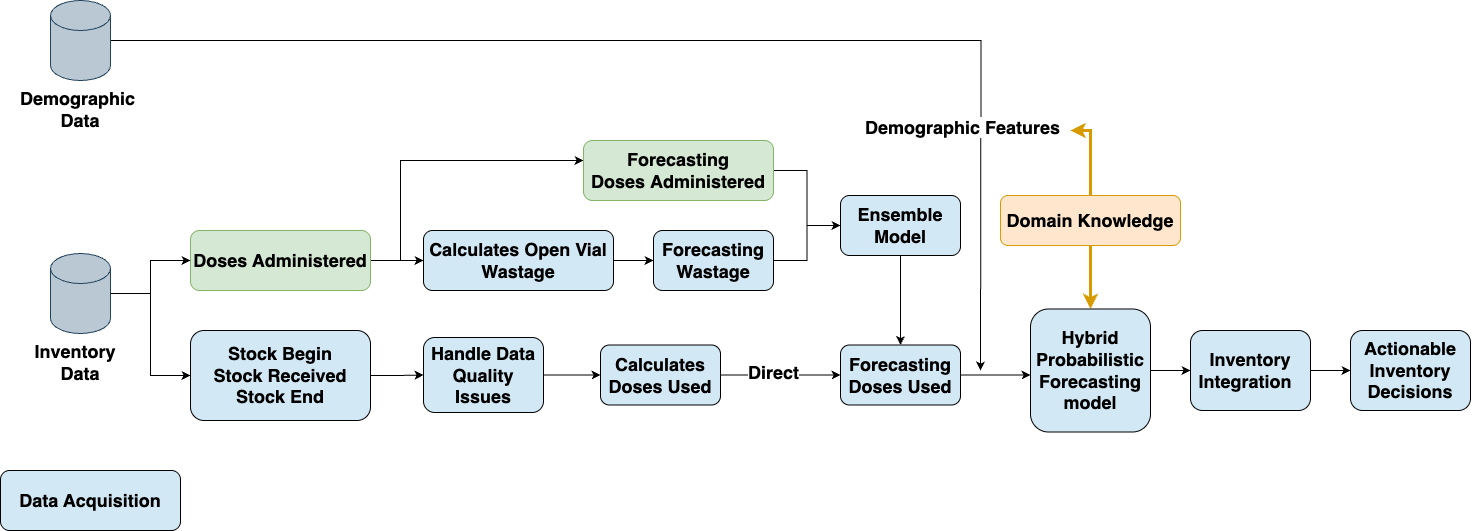
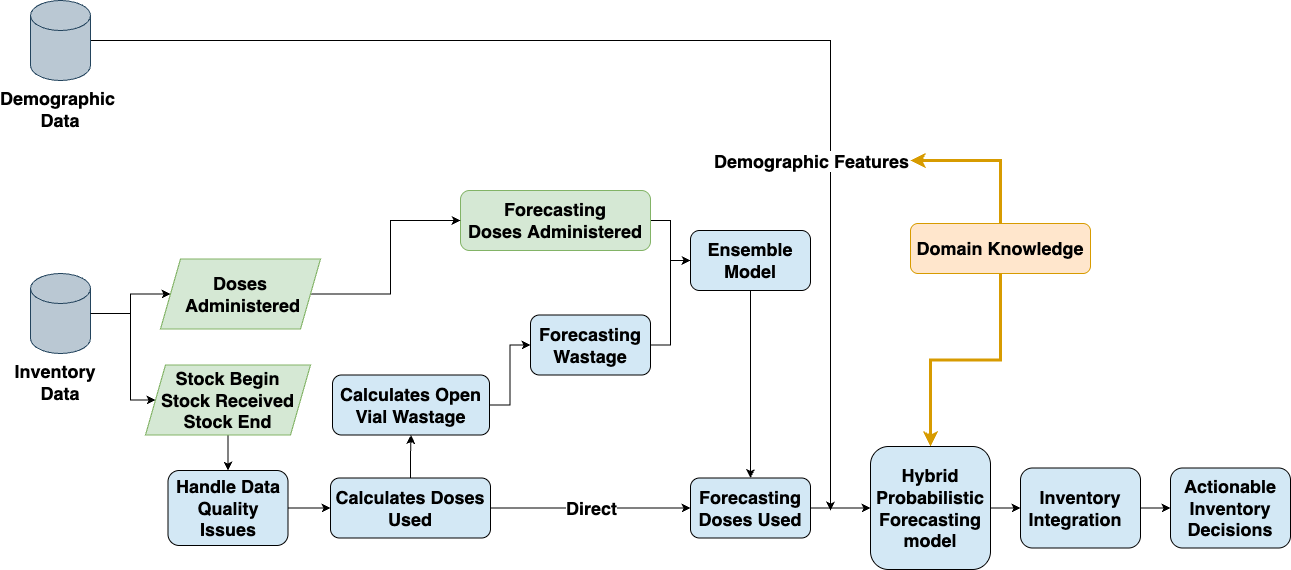
Few changes to EURO slides

diff --git a/_site/slides/euro_presentation/euro_slides.html b/_site/slides/euro_presentation/euro_slides.html
@@ -338,8 +338,6 @@
 <ul>
 <li>Developed by <span style="color: #FF4500;">UNICEF</span> to enhance national capacity in vaccine forecasting and supply planning</li>
 <li>Designed for <span style="color: #FF4500;">use by national immunisation programme managers</span> to support multi-year vaccine planning, particularly in <span style="color: #FF4500;">low- and middle-income countries</span></li>
-<li><span style="color: #FF4500;">Incorporates the older EPI Log Tool,</span> which relied solely on demographic methods</li>
-<li>Used during <span style="color: #FF4500;">annual forecasting exercises and for multi-year planning to align supply with projected needs</span></li>
 </ul>
 </section>
 <section id="forecasting-methods-in-the-fsp-tool" class="slide level2">
@@ -420,9 +418,7 @@
 <h2>Gavi Vaccine Allocation and Renewal Tool</h2>
 <ul>
 <li>Developed by <span style="color: #FF4500;">Gavi, the Vaccine Alliance</span> to guide financial support for country immunisation programmes</li>
-<li>Used by <span style="color: #FF4500;">national governments and Gavi</span> to estimate routine vaccine needs and determine <span style="color: #FF4500;">multi-year funding allocations</span></li>
-<li>Applied during <span style="color: #FF4500;">multi-year approval (MYA) and annual renewal processes</span> for Gavi-supported vaccines</li>
-<li>Focused on <span style="color: #FF4500;">routine immunisation only</span>, using demographic forecasting to inform co-financing responsibilities and procurement planning</li>
+<li>Used by <span style="color: #FF4500;">national governments and Gavi</span> to estimate routine vaccine needs and determine <span style="color: #FF4500;">multi-year funding allocations for Gavi-supported vaccines</span></li>
 </ul>
 </section>
 <section id="forecasting-equation-used-in-the-tool" class="slide level2">
@@ -504,26 +500,6 @@
 
 
 </div>
-</section>
-<section id="strengths-of-current-forecasting-tools" class="slide level2">
-<h2>Strengths of Current Forecasting Tools</h2>
-<ul>
-<li><span style="color: #FF4500;">Fit for national planning</span>: supports budgeting and procurement.</li>
-<li><span style="color: #FF4500;">Simple and transparent</span>: easy to use, low technical barrier.</li>
-<li><span style="color: #FF4500;">Globally backed</span>: aligned with funders and reporting.</li>
-<li><span style="color: #FF4500;">Standardised assumptions</span>: enables cross-country comparison.</li>
-<li><span style="color: #FF4500;">Evolving tools</span>: FSP integration improves accuracy.</li>
-</ul>
-</section>
-<section id="limitations-of-current-forecasting-tools" class="slide level2">
-<h2>Limitations of Current Forecasting Tools</h2>
-<ul>
-<li><span style="color: #FF4500;">Assume perfect data</span>: not realistic in low-resource settings.</li>
-<li><span style="color: #FF4500;">Ignore uncertainty</span> in demand and supply.</li>
-<li><span style="color: #FF4500;">National focus</span>: misses facility-level variation.</li>
-<li><span style="color: #FF4500;">Slow updates</span>: not responsive to rapid changes.</li>
-<li><span style="color: #FF4500;">Fixed weights</span>: not adaptive to data quality.</li>
-</ul>
 </section>
 <section id="literature-review" class="slide level2">
 <h2>Literature Review</h2>
@@ -790,7 +766,7 @@
 <section id="research-questions" class="slide level2" data-auto-animate="true">
 <h2 data-id="quarto-animate-title">Research Questions</h2>
 <div class="fragment">
-<p><span style="color: #FF4500;"><strong>RQ1:</strong></span> What is the most suitable consumption-based forecasting model for routine vaccine demand forecasting at national level?</p>
+<p><span style="color: #FF4500;"><strong>RQ1:</strong></span> What is the most suitable consumption-based forecasting model for routine vaccine demand at national level?</p>
 </div>
 <div class="fragment">
 <p><span style="color: #FF4500;"><strong>RQ2:</strong></span> How can population-based features be effectively combined with consumption-based models to improve forecast accuracy and quantify uncertainty?</p>
@@ -855,7 +831,7 @@
 <section id="forecasting-setup" class="slide level2">
 <h2>Forecasting Setup</h2>
 <ul>
-<li>Forecasting methods: <span style="color: #FF4500;">Naive, Seasonal Naive, ARIMA, ETS, Linear Regression, Gradient Boosting (GBM, quantile regression) </span></li>
+<li>Forecasting methods: <span style="color: #FF4500;">Seasonal Naive, ARIMA, ETS, Linear Regression, Gradient Boosting (GBM, quantile regression) </span></li>
 <li>Forecast horizon: <span style="color: #FF4500;">12 months</span></li>
 <li>Target: Doses Administered</li>
 <li>Cross-sectional training across vaccines with monthly data, using an <span style="color: #FF4500;">expanding window approach</span></li>

diff --git a/slides/euro_presentation/euro_slides.html b/slides/euro_presentation/euro_slides.html
@@ -338,8 +338,6 @@
 <ul>
 <li>Developed by <span style="color: #FF4500;">UNICEF</span> to enhance national capacity in vaccine forecasting and supply planning</li>
 <li>Designed for <span style="color: #FF4500;">use by national immunisation programme managers</span> to support multi-year vaccine planning, particularly in <span style="color: #FF4500;">low- and middle-income countries</span></li>
-<li><span style="color: #FF4500;">Incorporates the older EPI Log Tool,</span> which relied solely on demographic methods</li>
-<li>Used during <span style="color: #FF4500;">annual forecasting exercises and for multi-year planning to align supply with projected needs</span></li>
 </ul>
 </section>
 <section id="forecasting-methods-in-the-fsp-tool" class="slide level2">
@@ -420,9 +418,7 @@
 <h2>Gavi Vaccine Allocation and Renewal Tool</h2>
 <ul>
 <li>Developed by <span style="color: #FF4500;">Gavi, the Vaccine Alliance</span> to guide financial support for country immunisation programmes</li>
-<li>Used by <span style="color: #FF4500;">national governments and Gavi</span> to estimate routine vaccine needs and determine <span style="color: #FF4500;">multi-year funding allocations</span></li>
-<li>Applied during <span style="color: #FF4500;">multi-year approval (MYA) and annual renewal processes</span> for Gavi-supported vaccines</li>
-<li>Focused on <span style="color: #FF4500;">routine immunisation only</span>, using demographic forecasting to inform co-financing responsibilities and procurement planning</li>
+<li>Used by <span style="color: #FF4500;">national governments and Gavi</span> to estimate routine vaccine needs and determine <span style="color: #FF4500;">multi-year funding allocations for Gavi-supported vaccines</span></li>
 </ul>
 </section>
 <section id="forecasting-equation-used-in-the-tool" class="slide level2">
@@ -504,26 +500,6 @@
 
 
 </div>
-</section>
-<section id="strengths-of-current-forecasting-tools" class="slide level2">
-<h2>Strengths of Current Forecasting Tools</h2>
-<ul>
-<li><span style="color: #FF4500;">Fit for national planning</span>: supports budgeting and procurement.</li>
-<li><span style="color: #FF4500;">Simple and transparent</span>: easy to use, low technical barrier.</li>
-<li><span style="color: #FF4500;">Globally backed</span>: aligned with funders and reporting.</li>
-<li><span style="color: #FF4500;">Standardised assumptions</span>: enables cross-country comparison.</li>
-<li><span style="color: #FF4500;">Evolving tools</span>: FSP integration improves accuracy.</li>
-</ul>
-</section>
-<section id="limitations-of-current-forecasting-tools" class="slide level2">
-<h2>Limitations of Current Forecasting Tools</h2>
-<ul>
-<li><span style="color: #FF4500;">Assume perfect data</span>: not realistic in low-resource settings.</li>
-<li><span style="color: #FF4500;">Ignore uncertainty</span> in demand and supply.</li>
-<li><span style="color: #FF4500;">National focus</span>: misses facility-level variation.</li>
-<li><span style="color: #FF4500;">Slow updates</span>: not responsive to rapid changes.</li>
-<li><span style="color: #FF4500;">Fixed weights</span>: not adaptive to data quality.</li>
-</ul>
 </section>
 <section id="literature-review" class="slide level2">
 <h2>Literature Review</h2>
@@ -790,7 +766,7 @@
 <section id="research-questions" class="slide level2" data-auto-animate="true">
 <h2 data-id="quarto-animate-title">Research Questions</h2>
 <div class="fragment">
-<p><span style="color: #FF4500;"><strong>RQ1:</strong></span> What is the most suitable consumption-based forecasting model for routine vaccine demand forecasting at national level?</p>
+<p><span style="color: #FF4500;"><strong>RQ1:</strong></span> What is the most suitable consumption-based forecasting model for routine vaccine demand at national level?</p>
 </div>
 <div class="fragment">
 <p><span style="color: #FF4500;"><strong>RQ2:</strong></span> How can population-based features be effectively combined with consumption-based models to improve forecast accuracy and quantify uncertainty?</p>
@@ -855,7 +831,7 @@
 <section id="forecasting-setup" class="slide level2">
 <h2>Forecasting Setup</h2>
 <ul>
-<li>Forecasting methods: <span style="color: #FF4500;">Naive, Seasonal Naive, ARIMA, ETS, Linear Regression, Gradient Boosting (GBM, quantile regression) </span></li>
+<li>Forecasting methods: <span style="color: #FF4500;">Seasonal Naive, ARIMA, ETS, Linear Regression, Gradient Boosting (GBM, quantile regression) </span></li>
 <li>Forecast horizon: <span style="color: #FF4500;">12 months</span></li>
 <li>Target: Doses Administered</li>
 <li>Cross-sectional training across vaccines with monthly data, using an <span style="color: #FF4500;">expanding window approach</span></li>
